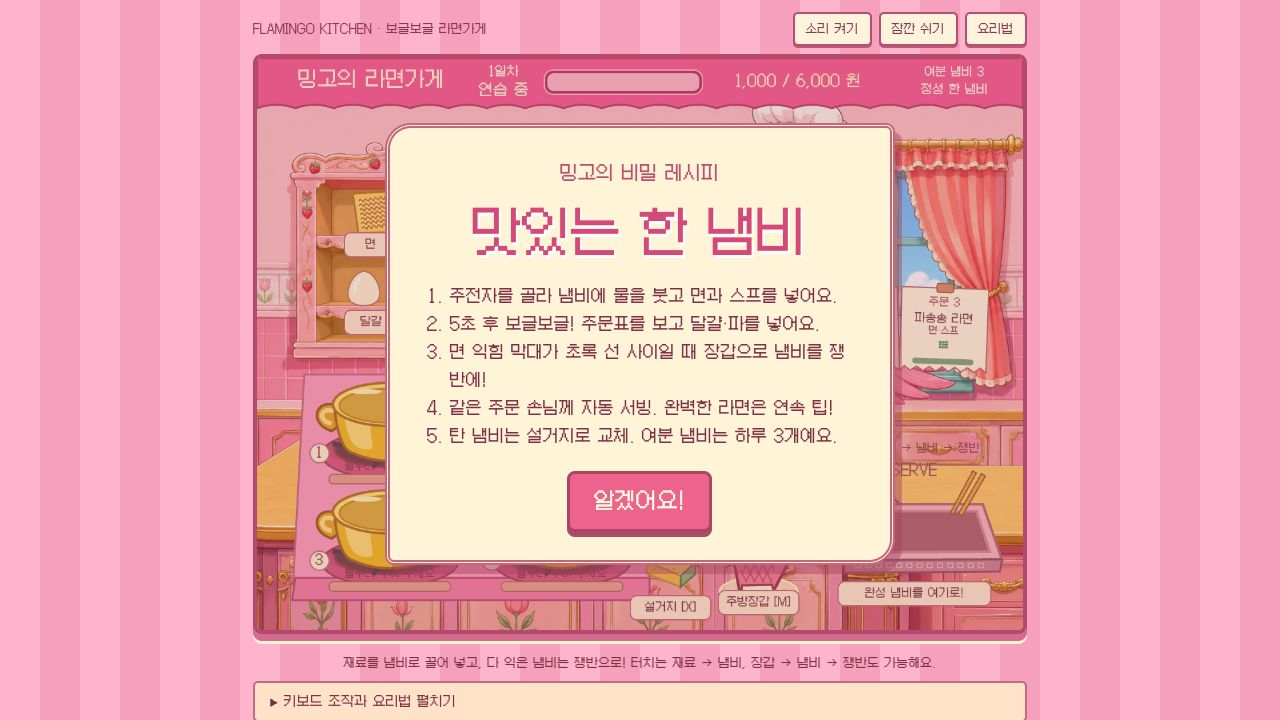
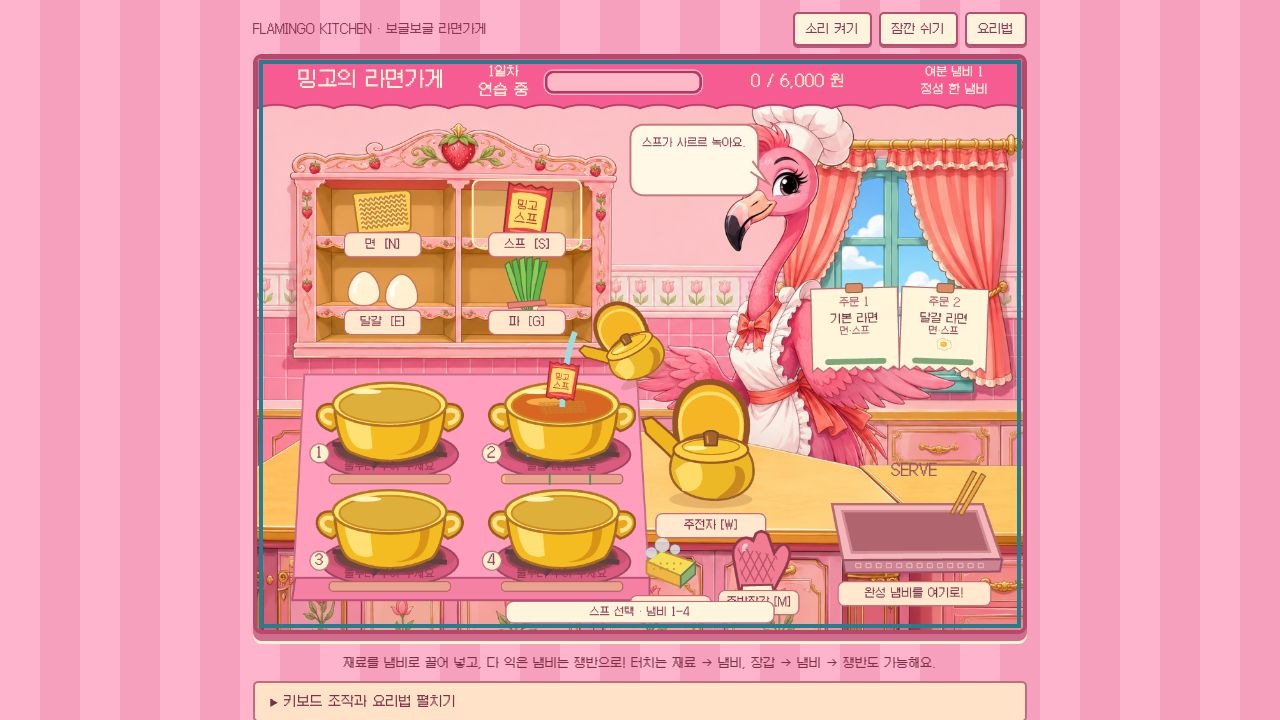
Show unobstructed real cooking screen in repository preview

diff --git a/docs/browser-qa.md b/docs/browser-qa.md
@@ -7,6 +7,7 @@ Codex 인앱 브라우저, 실제 1280×720 화면, `npm run dev`의 4201 포트
 - 일시정지 → 계속 끓이기, 요리법 → 알겠어요 복귀를 확인했습니다.
 - 첫 검수에서 아래 냄비와 쟁반이 화면 밖으로 잘렸습니다. 높이 기반 크기 조정 후 네 냄비·주전자·장갑·서빙 쟁반이 720px 화면 안에 함께 보입니다.
 - 개발자 콘솔 경고/오류 기록은 비어 있었습니다.
-- `preview.jpg`는 위 실제 플레이에서 매출 1,000원이 표시된 화면입니다. CPU 렌더는 `previews/kitchen-cpu.png`로 별도 구분합니다.
+- GitHub 카드 최종 검수에서 이전 캡처는 요리법 패널이 주방을 가리고 있어 교체했습니다. 현재 `preview.jpg`는 새 실제 연습에서 키보드 `W 2 / N 2 / S 2`로 두 번째 냄비에 재료를 넣은 순간이며, 네 냄비·셰프·서빙 쟁반이 모두 보입니다. 매출 1,000원 검증은 위의 별도 실제 드래그 플레이 기록입니다. CPU 렌더는 `previews/kitchen-cpu.png`로 구분합니다.
+- 재촬영 중 익기 전/탄 라면의 서빙 거절과 `X → 냄비 번호` 설거지 교체도 실제 입력으로 확인했습니다.
 
 모바일 크기 변경을 요청했지만 도구의 실제 viewport는 1280×720을 유지해 모바일 통과로 기록하지 않습니다. 실제 휴대전화 터치, 오디오 청취, 브라우저에서 3일 연속 완주는 미검증입니다. 3일 완주와 실패 분기는 일반 입력을 사용하는 CPU 테스트로 별도 검사합니다.

diff --git a/README.md b/README.md
@@ -2,7 +2,7 @@
 
 네 개의 냄비를 돌려 손님 주문을 맞추는 독립 요리 게임. 슈의 라면가게의 **재료 집기 → 물 붓기 → 끓일 때 토핑 → 장갑으로 쟁반 서빙** 감각을 새 플라밍고 주방으로 만든 비공식 패러디입니다. 기존 아케이드 모음의 공통 엔진·화면·캐릭터를 사용하지 않습니다.
 
-![실제 드래그로 라면을 서빙한 주방 화면](docs/preview.jpg)
+![실제 키보드 입력으로 두 번째 냄비에 재료를 넣은 주방 화면](docs/preview.jpg)
 
 [소스 코드](src/) · [실제 브라우저 검증](docs/browser-qa.md) · [원화와 제작 기록](docs/art-direction.md)
 
